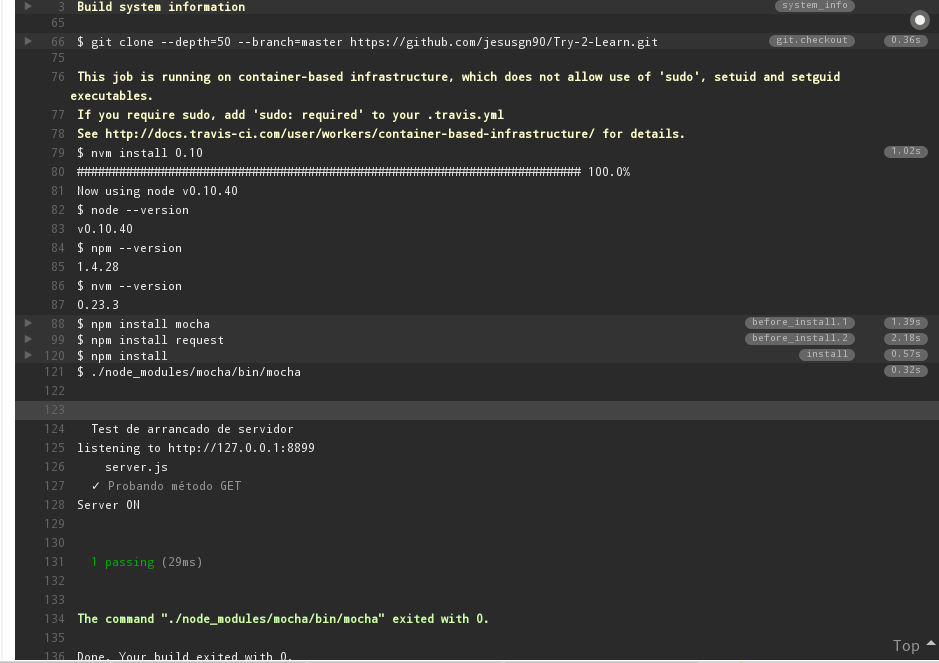
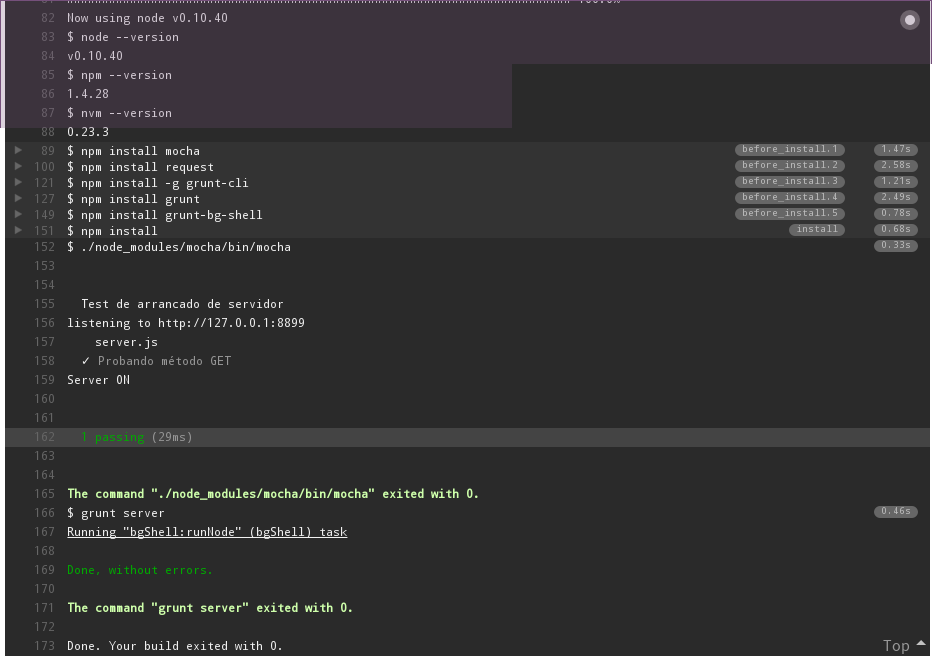
Finalizando práctica 2

Changed region(s): [[0.0, 0.0, 1.0, 1.0], [0.7779, 0.2134, 0.9024, 0.3659]]

diff --git a/README.md b/README.md
@@ -72,29 +72,8 @@ Para probar el test con mocha simplemente ejecutamos:
 
     ./node_modules/mocha/bin/mocha
 
-Respecto a la integración continua he optado por utilizar [Travis](https://travis-ci.org/) usando
-mi cuenta de GitHub [@jesusgn90](https://github.com/jesusgn90/). Lo primero que debemos hacer es crear
-el fichero .travis.yml, en el cual he añadido lo siguiente:
-
-    build_environment: Ubuntu 14.04
-    language: node_js
-    node_js:
-      - "0.10"
-    before_install:
-      - npm install mocha
-      - npm install request
-    script:
-      - ./node_modules/mocha/bin/mocha
-
-En él indicamos que se ejecute en un entorno Ubuntu 14.04 usando el lenguaje node_js versión 0.10 y que además instale
-localmente los módulos mocha y request. Además deseamos que ejecute mocha para los test por eso indicamos que se ejecute mocha
-mediante el apartado script.
-
-Podemos ver esta captura de pantalla de Travis en la que vemos que efectivamente se ejecuta todo como se esperaba:
-
-![travis](travis-1.png)
-
-Ahora vamos a usar [Grunt](http://gruntjs.com/), para ello vamos a instalar globalmente:
+Ahora vamos a usar [Grunt](http://gruntjs.com/), nos sirve para automatizar tareas, 
+para ello vamos a instalar globalmente:
 
     npm install -g grunt-cli
 
@@ -133,3 +112,29 @@ a continuación asignamos a la tarea el alias 'server'. Para probarlo debemos us
 En la siguiente captura podemos ver el resultado:
 
 ![grunt](grunt-1.png)
+
+Respecto a la integración continua he optado por utilizar [Travis](https://travis-ci.org/) usando
+mi cuenta de GitHub [@jesusgn90](https://github.com/jesusgn90/). Lo primero que debemos hacer es crear
+el fichero .travis.yml, en el cual he añadido lo siguiente:
+
+    build_environment: Ubuntu 14.04
+    language: node_js
+    node_js:
+      - "0.10"
+    before_install:
+      - npm install mocha
+      - npm install request
+      - npm install -g grunt-cli
+      - npm install grunt
+      - npm install grunt-bg-shell
+    script:
+      - ./node_modules/mocha/bin/mocha
+      - grunt server
+
+En él indicamos que se ejecute en un entorno Ubuntu 14.04 usando el lenguaje node_js versión 0.10 y que además instale
+localmente los módulos mocha y request. Además deseamos que ejecute mocha para los test por eso indicamos que se ejecute mocha
+mediante el apartado script.
+
+Podemos ver esta captura de pantalla de Travis en la que vemos que efectivamente se ejecuta todo como se esperaba:
+
+![travis](travis-1.png)
